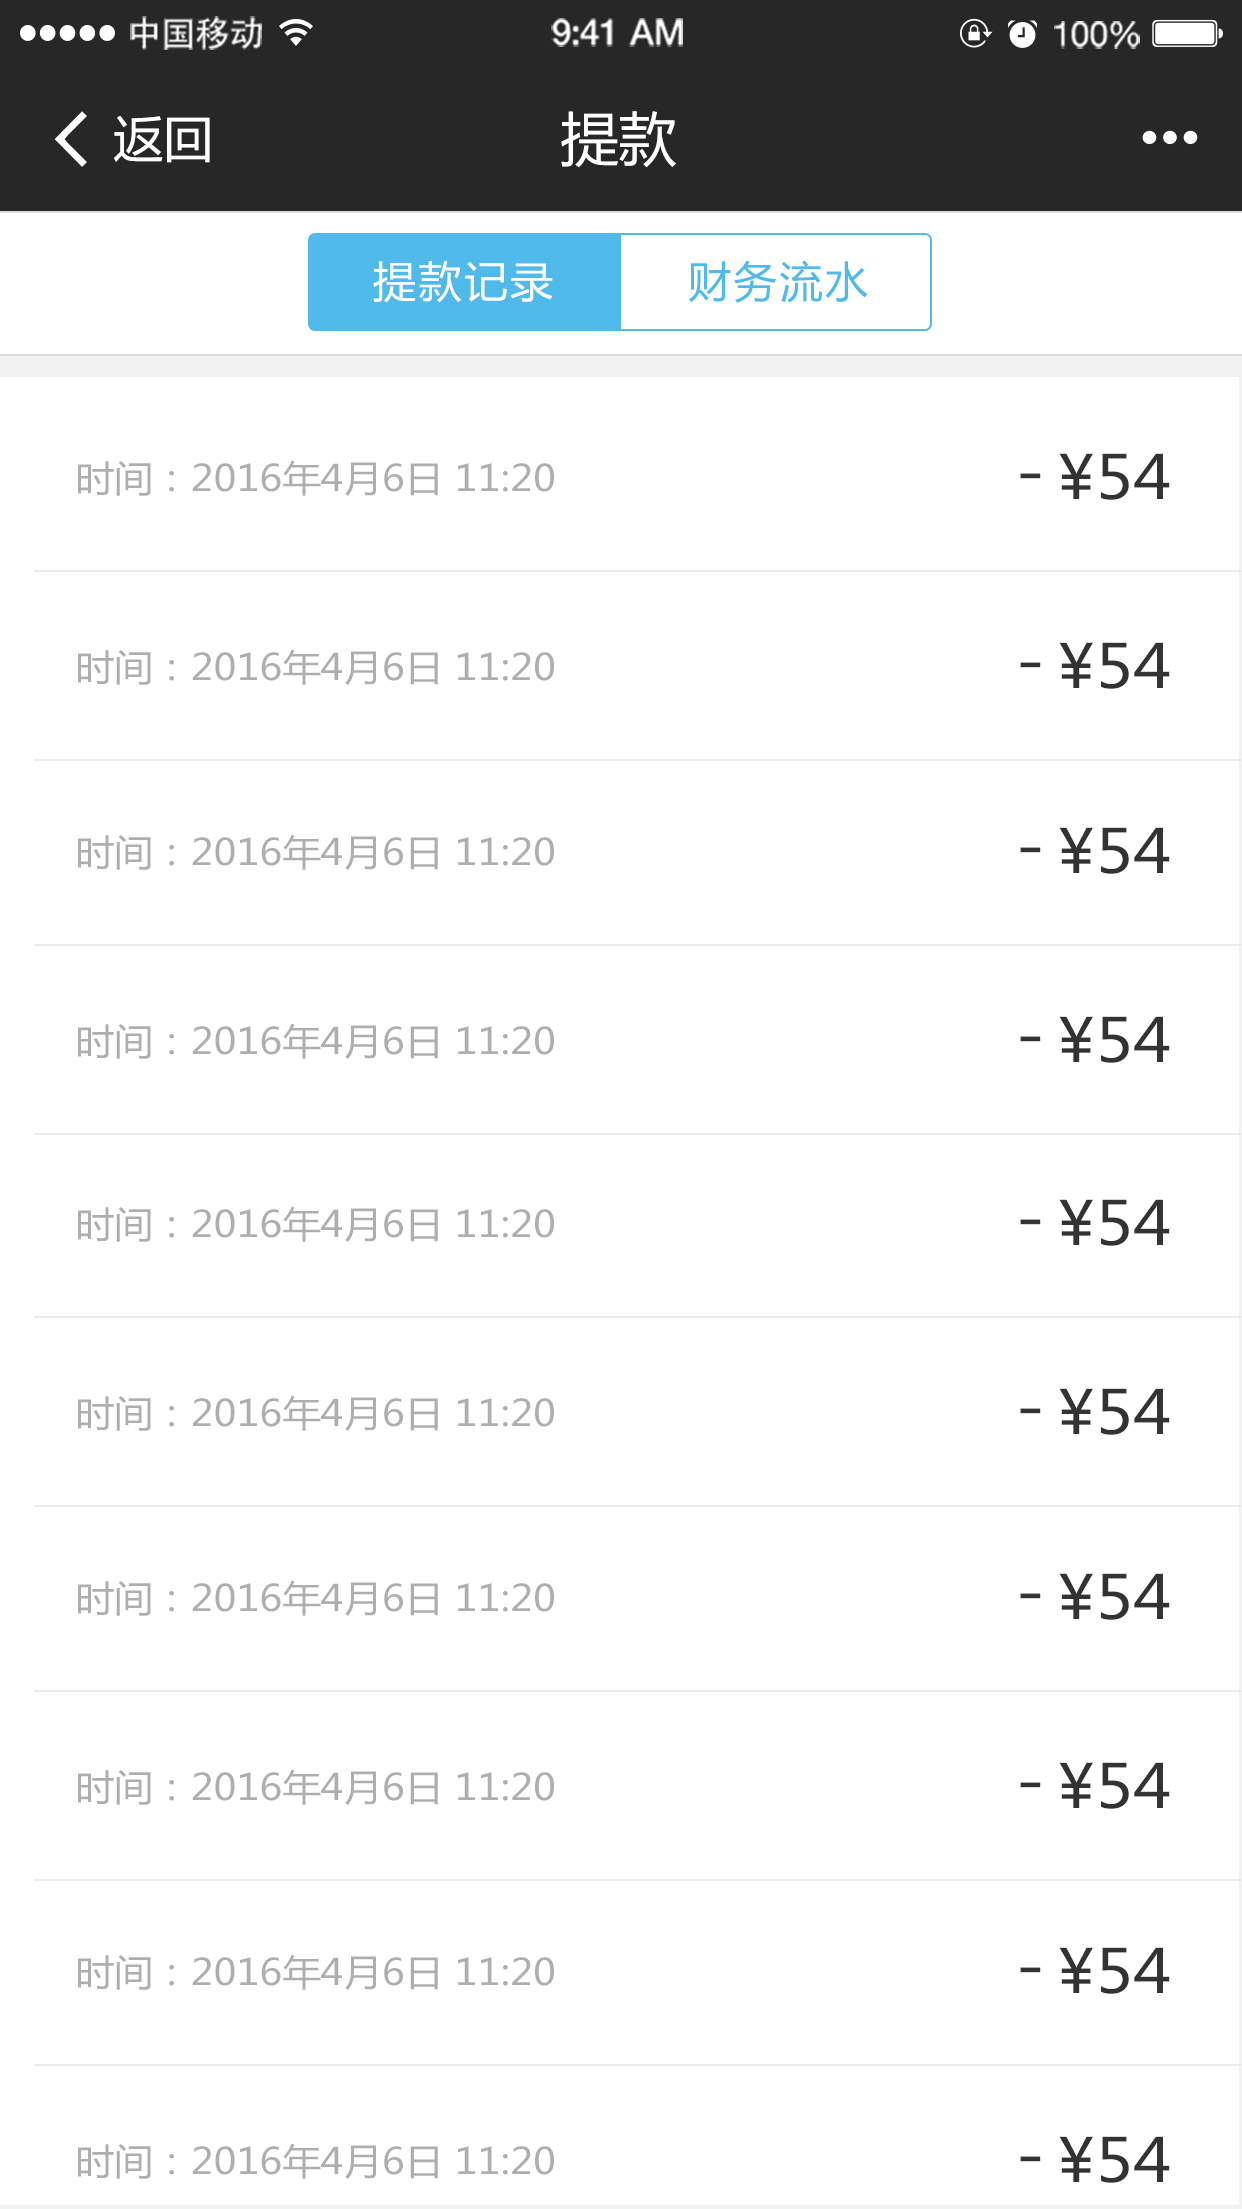
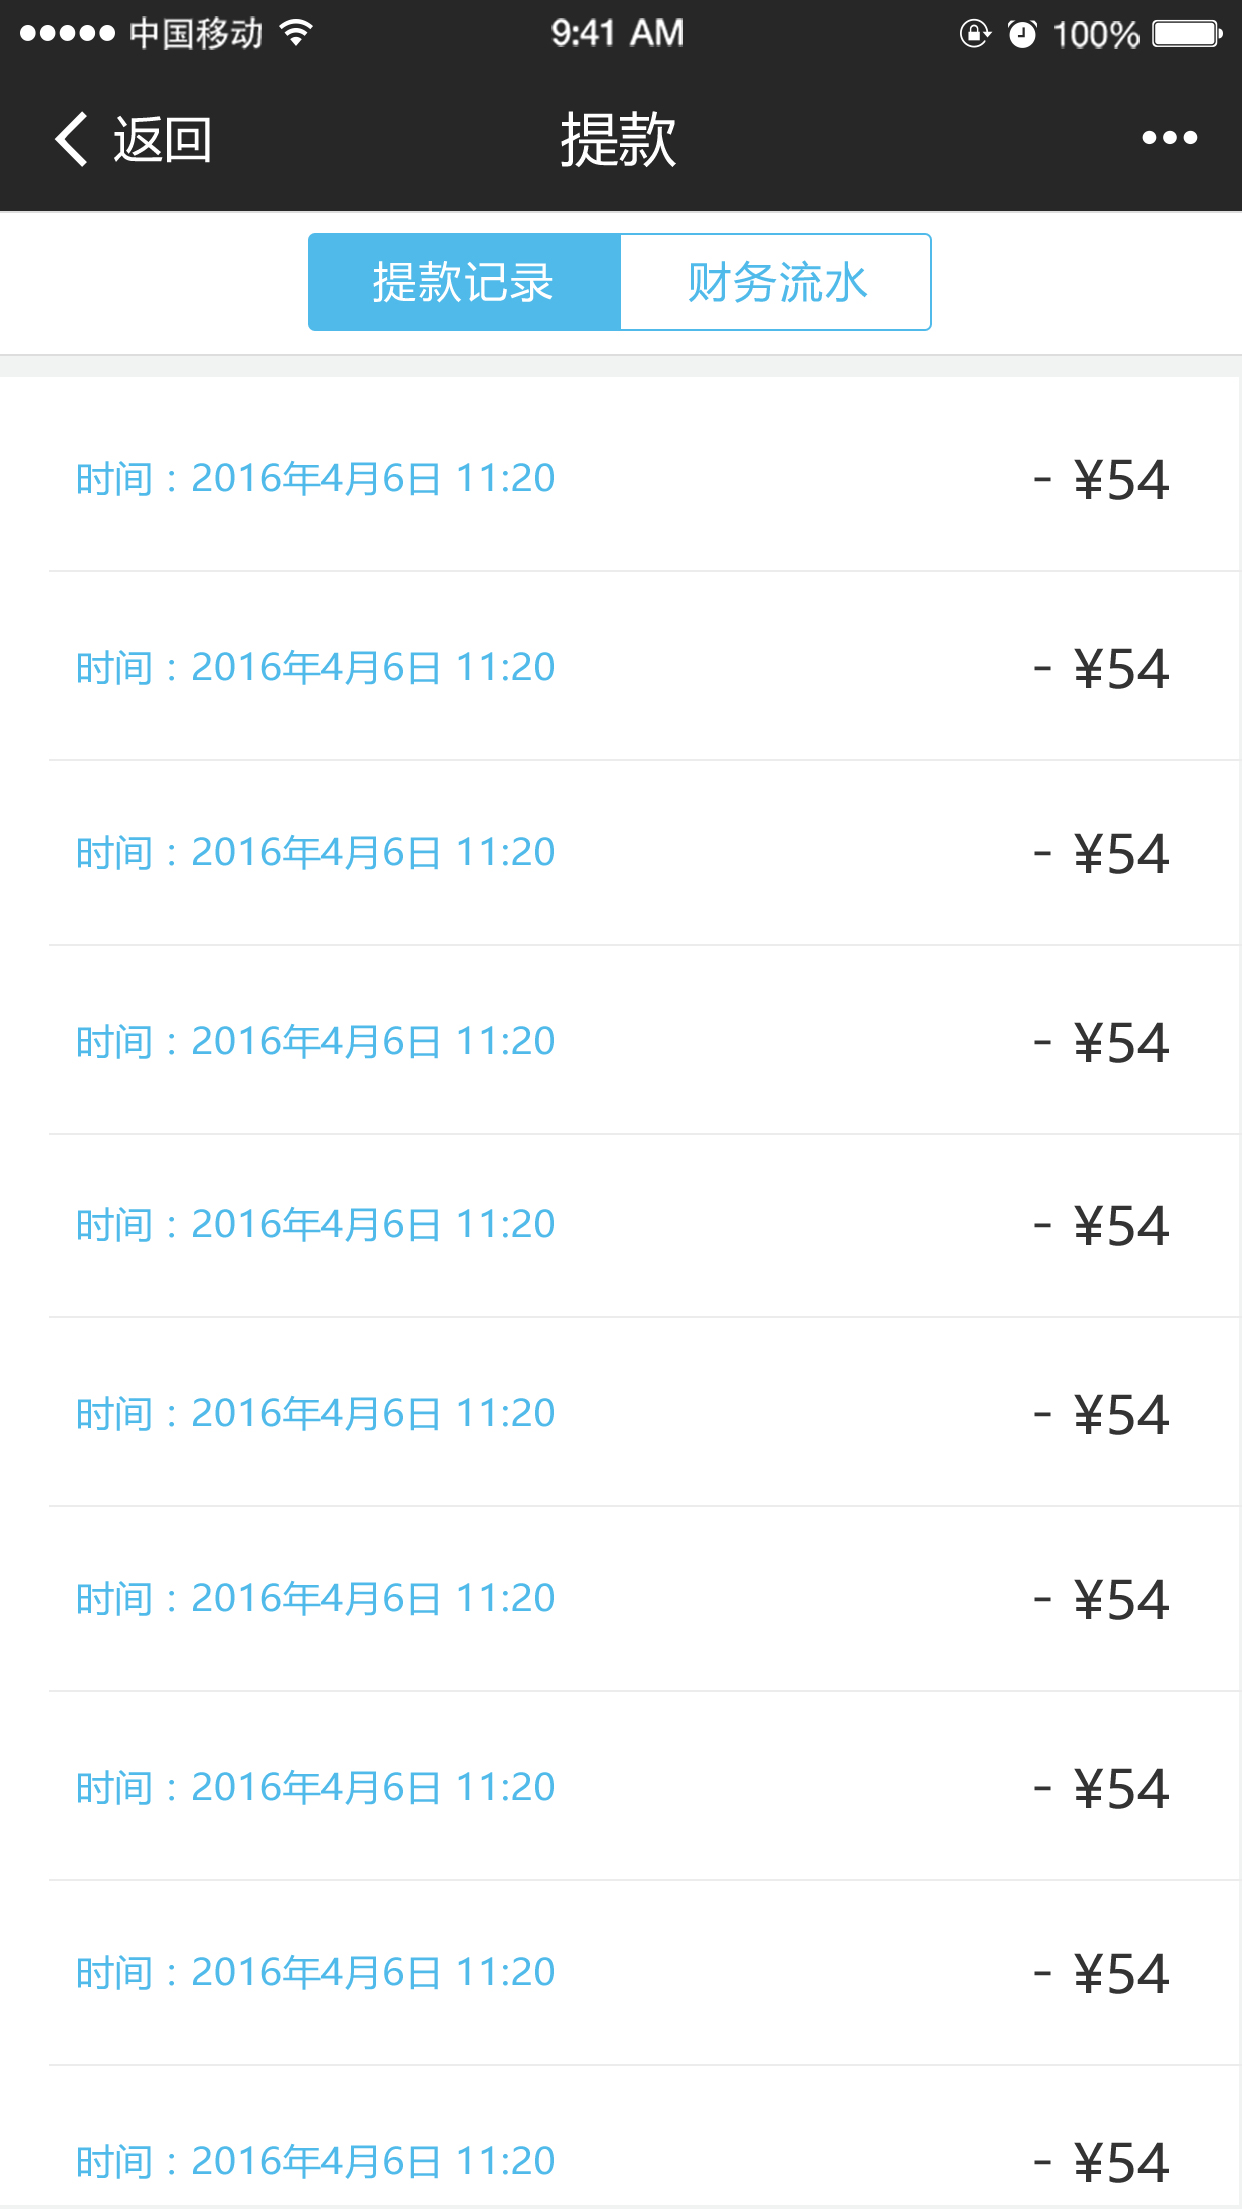
20160713

diff --git a/个人中心－财务流水/finanProcess.html b/个人中心－财务流水/finanProcess.html
@@ -25,7 +25,7 @@
 					<div class="row">
 						<div class="col-xs-8 col-sm-10 ">
 			                <div class="content-title">推拿按摩康复</div>
-			                <div>时间：2016年4月6号  11:20</div>
+			                <div class="content-time">时间：2016年4月6号  11:20</div>
 			                <div>单号：12378462312344</div>
 			            </div>
 			            <div class="col-xs-4 col-sm-2 text-right">
@@ -36,7 +36,7 @@
 					<div class="row">
 						<div class="col-xs-8 col-sm-10 ">
 			                <div class="content-title">推拿按摩康复</div>
-			                <div>时间：2016年4月6号  11:20</div>
+			                <div class="content-time">时间：2016年4月6号  11:20</div>
 			                <div>单号：12378462312344</div>
 			            </div>
 			            <div class="col-xs-4 col-sm-2 text-right">
@@ -63,7 +63,7 @@
 					<div class="row">
 						<div class="col-xs-8 col-sm-10 ">
 			                <div class="content-title">推拿按摩康复</div>
-			                <div>时间：2016年4月6号  11:20</div>
+			                <div class="content-time">时间：2016年4月6号  11:20</div>
 			                <div>单号：12378462312344</div>
 			            </div>
 			            <div class="col-xs-4 col-sm-2 text-right">

diff --git a/个人中心－财务流水/finanProcess.css b/个人中心－财务流水/finanProcess.css
@@ -40,3 +40,10 @@ ol, ul, li{
 	color:#333333;
 	font-size:20px;
 }
+.content .content-title{
+	font-weight: bold;
+	padding-bottom:6px;
+}
+.content .content-time{
+	color:#4ebdeb;
+}

diff --git a/个人中心－提款记录/drawMoney.css b/个人中心－提款记录/drawMoney.css
@@ -42,4 +42,5 @@ ol, ul, li{
 }
 .content .content-time{
 	padding-top:3px;
+	color:#4ebdeb;
 }
